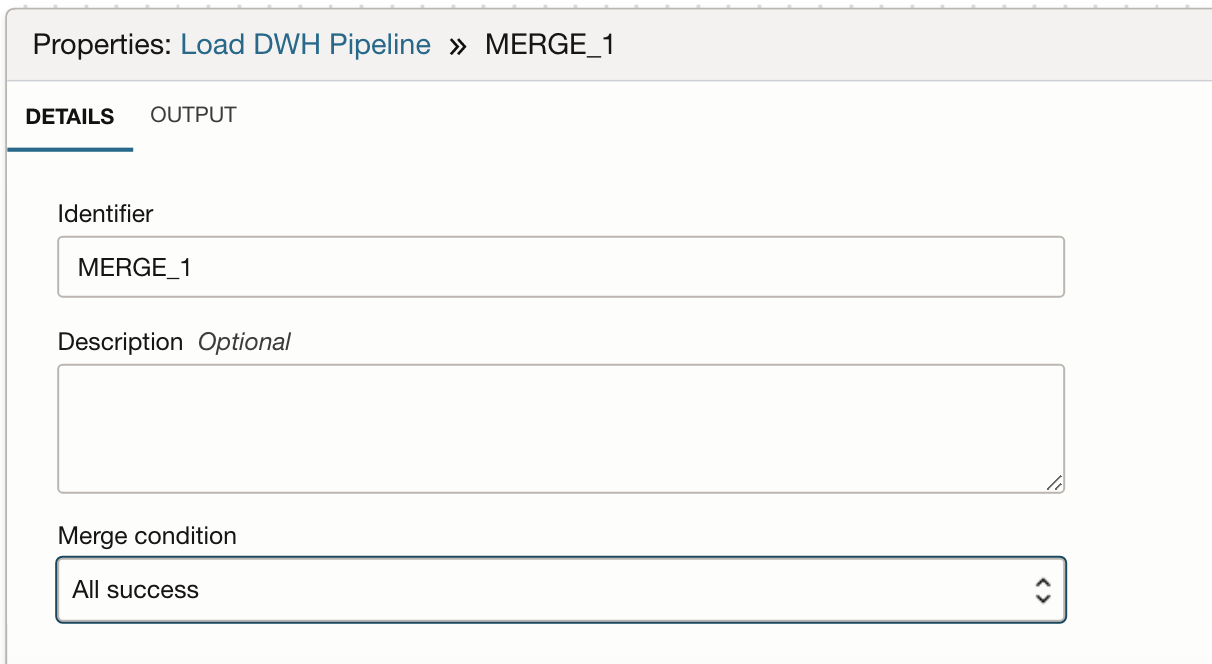
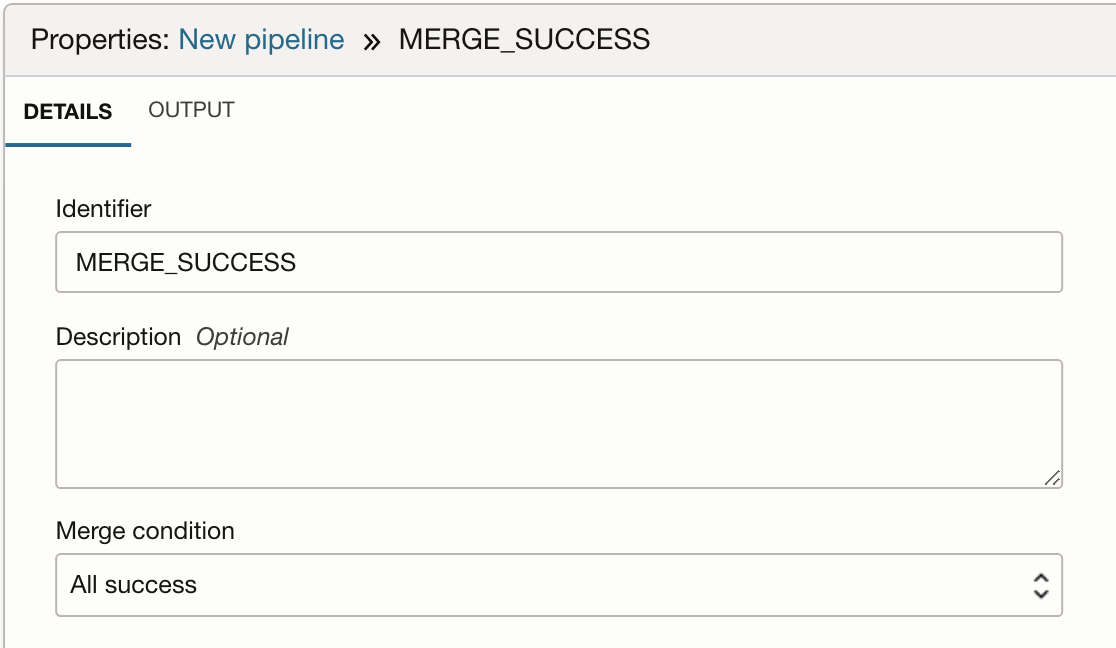
modified:   Lab3.md 	new file:   images/ocw23_pipeline_create.png 	modified:   images/ocw23_pipeline_merge2.png

diff --git a/oci-di/workshops/ocw23-livelabs/Lab3.md b/oci-di/workshops/ocw23-livelabs/Lab3.md
@@ -38,7 +38,7 @@ Any user interested in seeing the successful/ unsuccessful result of the Data In
 
 4. Click on **Create Pipeline**.
 
-  ![](images/ocw23_pipelinecreate.png " ")
+  ![](images/ocw23_pipeline_create.png " ")
 
 5. The **canvas for designing the Pipeline** is now displayed. The **start and end operators** are already added by default to the canvas. You will start by renaming the Pipeline. Under Properties for the Pipeline, on Details section, currently the name is `New Pipeline`. **Rename** to `Load DWH Pipeline`.
 
@@ -46,15 +46,15 @@ Any user interested in seeing the successful/ unsuccessful result of the Data In
 
 6. Click on **Create** button. The title of the pipeline will change to the pipeline name you have just added.
 
-  ![](../../pipelines/images/pipeline-renamed.png " ")
+  ![](images/ocw23_pipeline_name_after_save.png " ")
 
 7. To add a task, you will drag and drop a task operator from the Operators Panel. Start with the drag and drop of an **Integration task**. Connect **START\_1** operator to the **Integration task** you added.
 
-  ![](../../pipelines/images/add-integration-step.png " ")
+  ![](images/ocw23_pipeline_integrationtask1.png " ")
 
 8. In the Properties tab for **INTEGRATION\_TASK\_1**, Details section, click on Select to choose a published Integration task from your Application.
 
-  ![](../../pipelines/images/select-int-task.png " ")
+  ![](images/ocw23_pipeline_integrationtask2.png " ")
 
 9. A page pops up with the selections for the **Integration Task**:
 
@@ -68,15 +68,15 @@ Any user interested in seeing the successful/ unsuccessful result of the Data In
 
 10. In the properties bar, the **Integration Task** `Load Customers Lab` is now selected. The Identifier has automatically changed with the name of Integration Task you selected. For Incoming Link Condition, leave the default option of **Always run**.  *Note*: Be sure to save often during design time!
 
-  ![](../../pipelines/images/pipeline-first-operator.png " ")
+  ![](images/ocw23_pipeline_integrationtask3.png " ")
 
 11. Drag and drop a **Data Loader** component into the Pipeline canvas. We want this task to be run **in parallel** with the Integration task we have just defined, so connect **START\_1** operator with the **Data Loader task operator**.
 
-  ![](../../pipelines/images/pipeline-data-loader.png " ")
+  ![](images/ocw23_pipeline_dataloadertask1.png " ")
 
 12. On the Properties tab for **DATA\_LOADER\_TASK\_1**, Details section, click on Select to choose a **published Data Loader task from your Application**.
 
-  ![](../../pipelines/images/select-data-loader.png " ")
+  ![](images/ocw23_pipeline_dataloadertask2.png " ")
 
 13. A page pops up with the selections for the **Data Loader Task**:
 
@@ -90,15 +90,15 @@ Any user interested in seeing the successful/ unsuccessful result of the Data In
 
 14. In the properties bar, the **Data Loader Task** `Load Revenue Data into Data Warehouse` is now selected. The Identifier has automatically changed with the name of Data Loader Task you selected. For Incoming Link Condition, leave the default option of **Always run**.
 
-  ![](../../pipelines/images/task-data-loader.png " ")
+  ![](images/ocw23_pipeline_dataloadertask3.png " ")
 
 15. For these two tasks to run **in parallel**, you will now add a **merge operator**. Drag and drop the Merge operator on the canvas, then connect the two tasks (LOAD\_CUSTOMERS\_LAB and LOAD\_REVENUE\_DATA\_INTO_DATA\_WAREHOUSE) to the MERGE\_1 operator.
 
-  ![](../../pipelines/images/merge-op.png " ")
+  ![](images/ocw23_pipeline_merge.png " ")
 
 16. Under the Details tab of the **Properties** panel of the **MERGE\_1** operator, you can enter a name and optional description. Change the name to MERGE\_SUCCESS. For Merge Condition select the **All Success** option, which means that all parallel operations that are linked upstream must complete and succeed before the next downstream operation can proceed.  *Note*: Be sure to save often during design time!
 
-  ![](../../pipelines/images/merge-success.png " ")
+  ![](pipelines/images/ocw23_pipeline_merge2.png " ")
 
 17. Drag and drop an **Integration task** to the pipeline canvas. Connect **MERGE\_1** operator to the Integration task you added.
 
